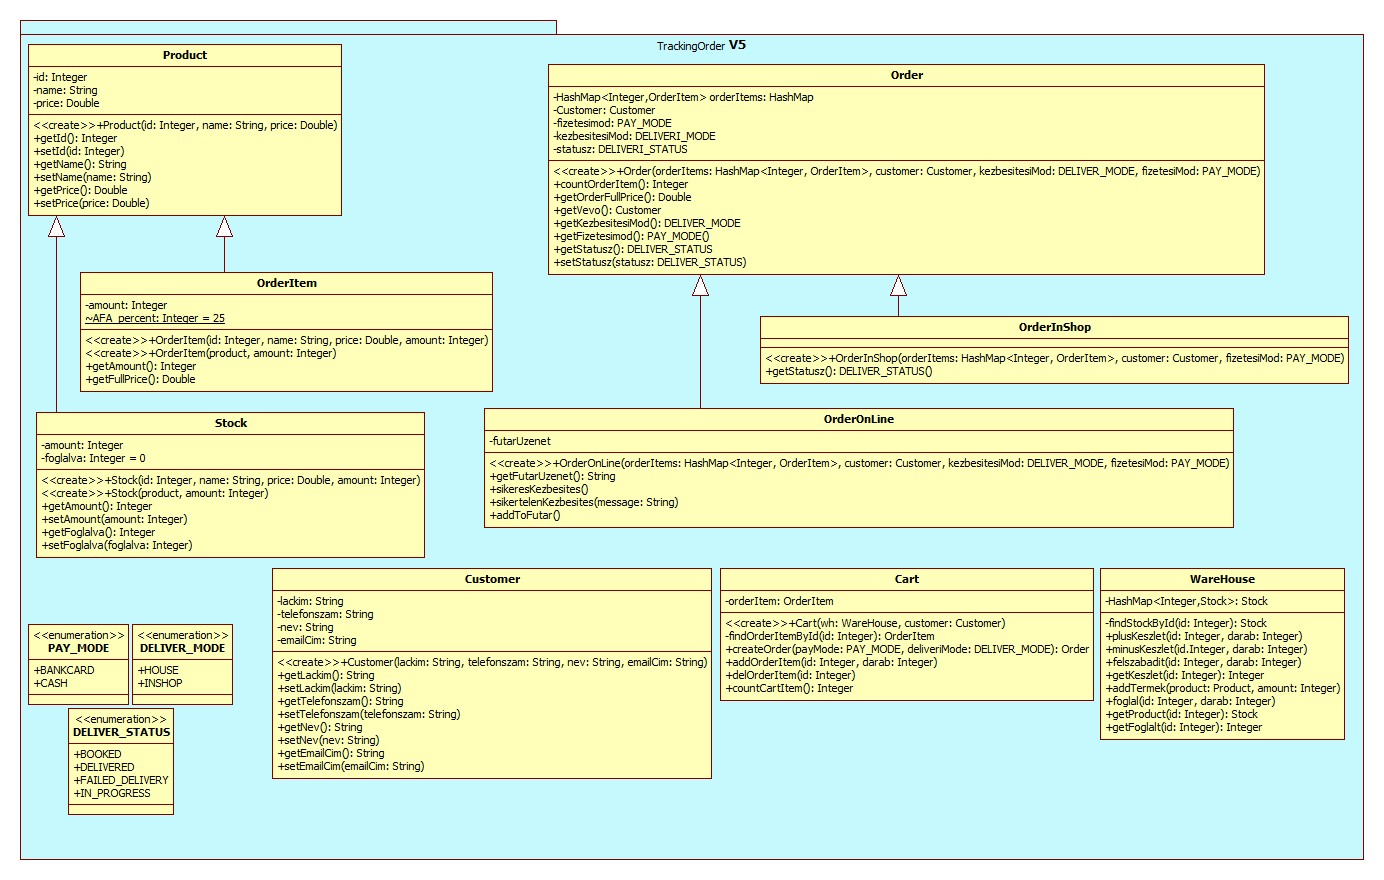
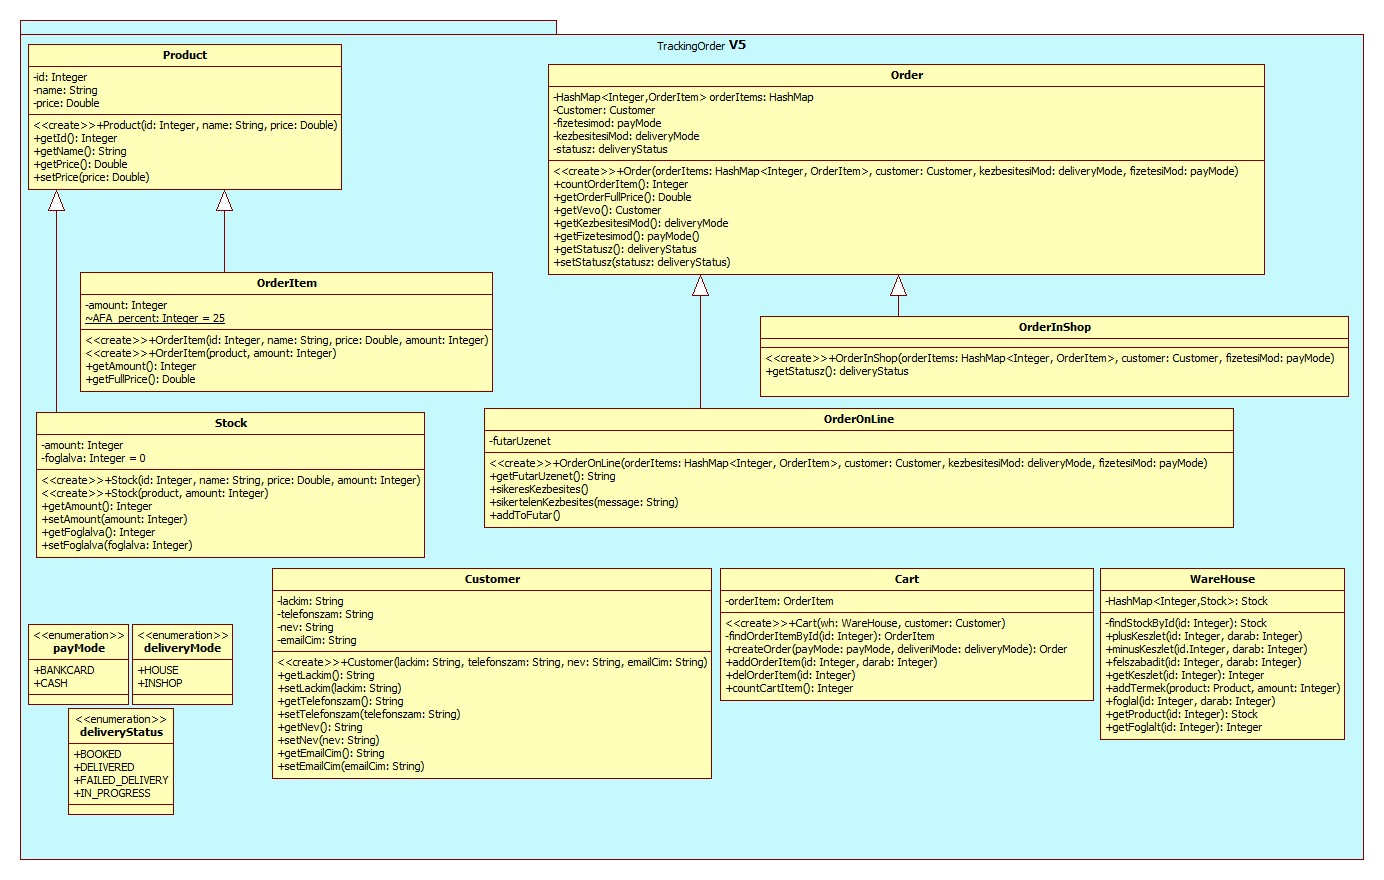
Kész :-)

diff --git a/src/main/java/trackingorder/Cart.java b/src/main/java/trackingorder/Cart.java
@@ -23,18 +23,15 @@ public class Cart {
     }
 
     public void addOrderItem( Integer id, Integer darab ) throws CartError , WareHouseError {
-        Stock s;
+        Product s;
         if (orderItems.containsKey(id))
             throw new CartError( "Item found in cart, can not add, ID:" + id , CartErrorCode.ITEMALREADYINCART ) ;
 
-        try {
-            wh.foglal(id, darab);
-            s = wh.getProdukt( id );
+        wh.foglal(id, darab);
+        s = wh.getProdukt( id );
 
-            orderItems.put(id, new OrderItem( id , s.getName() , s.getPrice() , darab  ) );
+        orderItems.put(id, new OrderItem( id , s.getName() , s.getPrice() , darab  ) );
 
-        }catch ( WareHouseError whe ){
-        }
     }
 
     public void delOrderItem( Integer id) throws CartError{
@@ -55,14 +52,11 @@ public class Cart {
     public Order createOrder(payMode payMode , deliveryMode deliveriMode ){
         Order order;
 
-        Iterator<Map.Entry<Integer,OrderItem>> orderItemsIterator = orderItems.entrySet().iterator();
-        while (orderItemsIterator.hasNext()) {
-            Map.Entry<Integer, OrderItem> set = (Map.Entry<Integer, OrderItem>) orderItemsIterator.next();
-
+        orderItems.forEach((key, value) -> {
             // Amit lefoglaltam felszabadítom és rögtönk csökkentem is vele a raktár készletet.
-            wh.felszabadit( set.getValue().getId() , set.getValue().getAmount() );
-            wh.minusKeszlet( set.getValue().getId() , set.getValue().getAmount() );
-        }
+            wh.felszabadit(value.getId(), value.getAmount());
+            wh.minusKeszlet(value.getId(), value.getAmount());
+        });
 
 
         if( deliveriMode == deliveryMode.INSHOP ){

diff --git a/src/main/java/trackingorder/WareHouse.java b/src/main/java/trackingorder/WareHouse.java
@@ -21,8 +21,14 @@ public class WareHouse {
         stock.put( product.getId() ,  new Stock( product, amount ) );
     }
 
-    public Stock getProdukt( Integer id ){
-        return findStockById(id);
+    public Product getProdukt( Integer id ){
+        Product p;
+        Stock s;
+
+        s = findStockById(id);
+        p = new Product( s.getId() , s.getName(), s.getPrice() );
+
+        return p;
     }
 
     public void plusKeszlet( Integer id, Integer darab ){
@@ -47,27 +53,21 @@ public class WareHouse {
     }
 
     public void foglal( Integer id, Integer darab) throws WareHouseError{
-        Stock s = null;
+        Stock s;
 
-        try {
-            s = this.findStockById(id);
+        s = this.findStockById(id);
 
-            if( s.getAmount() < darab ){
-                throw new WareHouseError( "Unable to reserve, not amount: " + id, WareHouseErrorCode.STOCK_LOW );
-            }else{
-                s.setAmount( s.getAmount()-darab);
-                s.setFoglalva( s.getFoglalva() + darab);
-            }
-
-        }
-        catch( WareHouseError whe  ){
-            throw new WareHouseError( "Unable to reserve, not found: " + id, whe.getErrorCode());
+        if( s.getAmount() < darab ){
+            throw new WareHouseError( "Unable to reserve, not amount: " + id, WareHouseErrorCode.STOCK_LOW );
+        }else{
+            s.setAmount( s.getAmount()-darab);
+            s.setFoglalva( s.getFoglalva() + darab);
         }
 
     }
 
     public void felszabadit( Integer id, Integer darab) throws WareHouseError  {
-        Stock s = null;
+        Stock s;
 
         s = this.findStockById(id);
 

diff --git a/src/main/java/trackingorder/TrackingOrder.java b/src/main/java/trackingorder/TrackingOrder.java
@@ -1,7 +1,5 @@
 package trackingorder;
 
-
-
 public class TrackingOrder {
 
 
